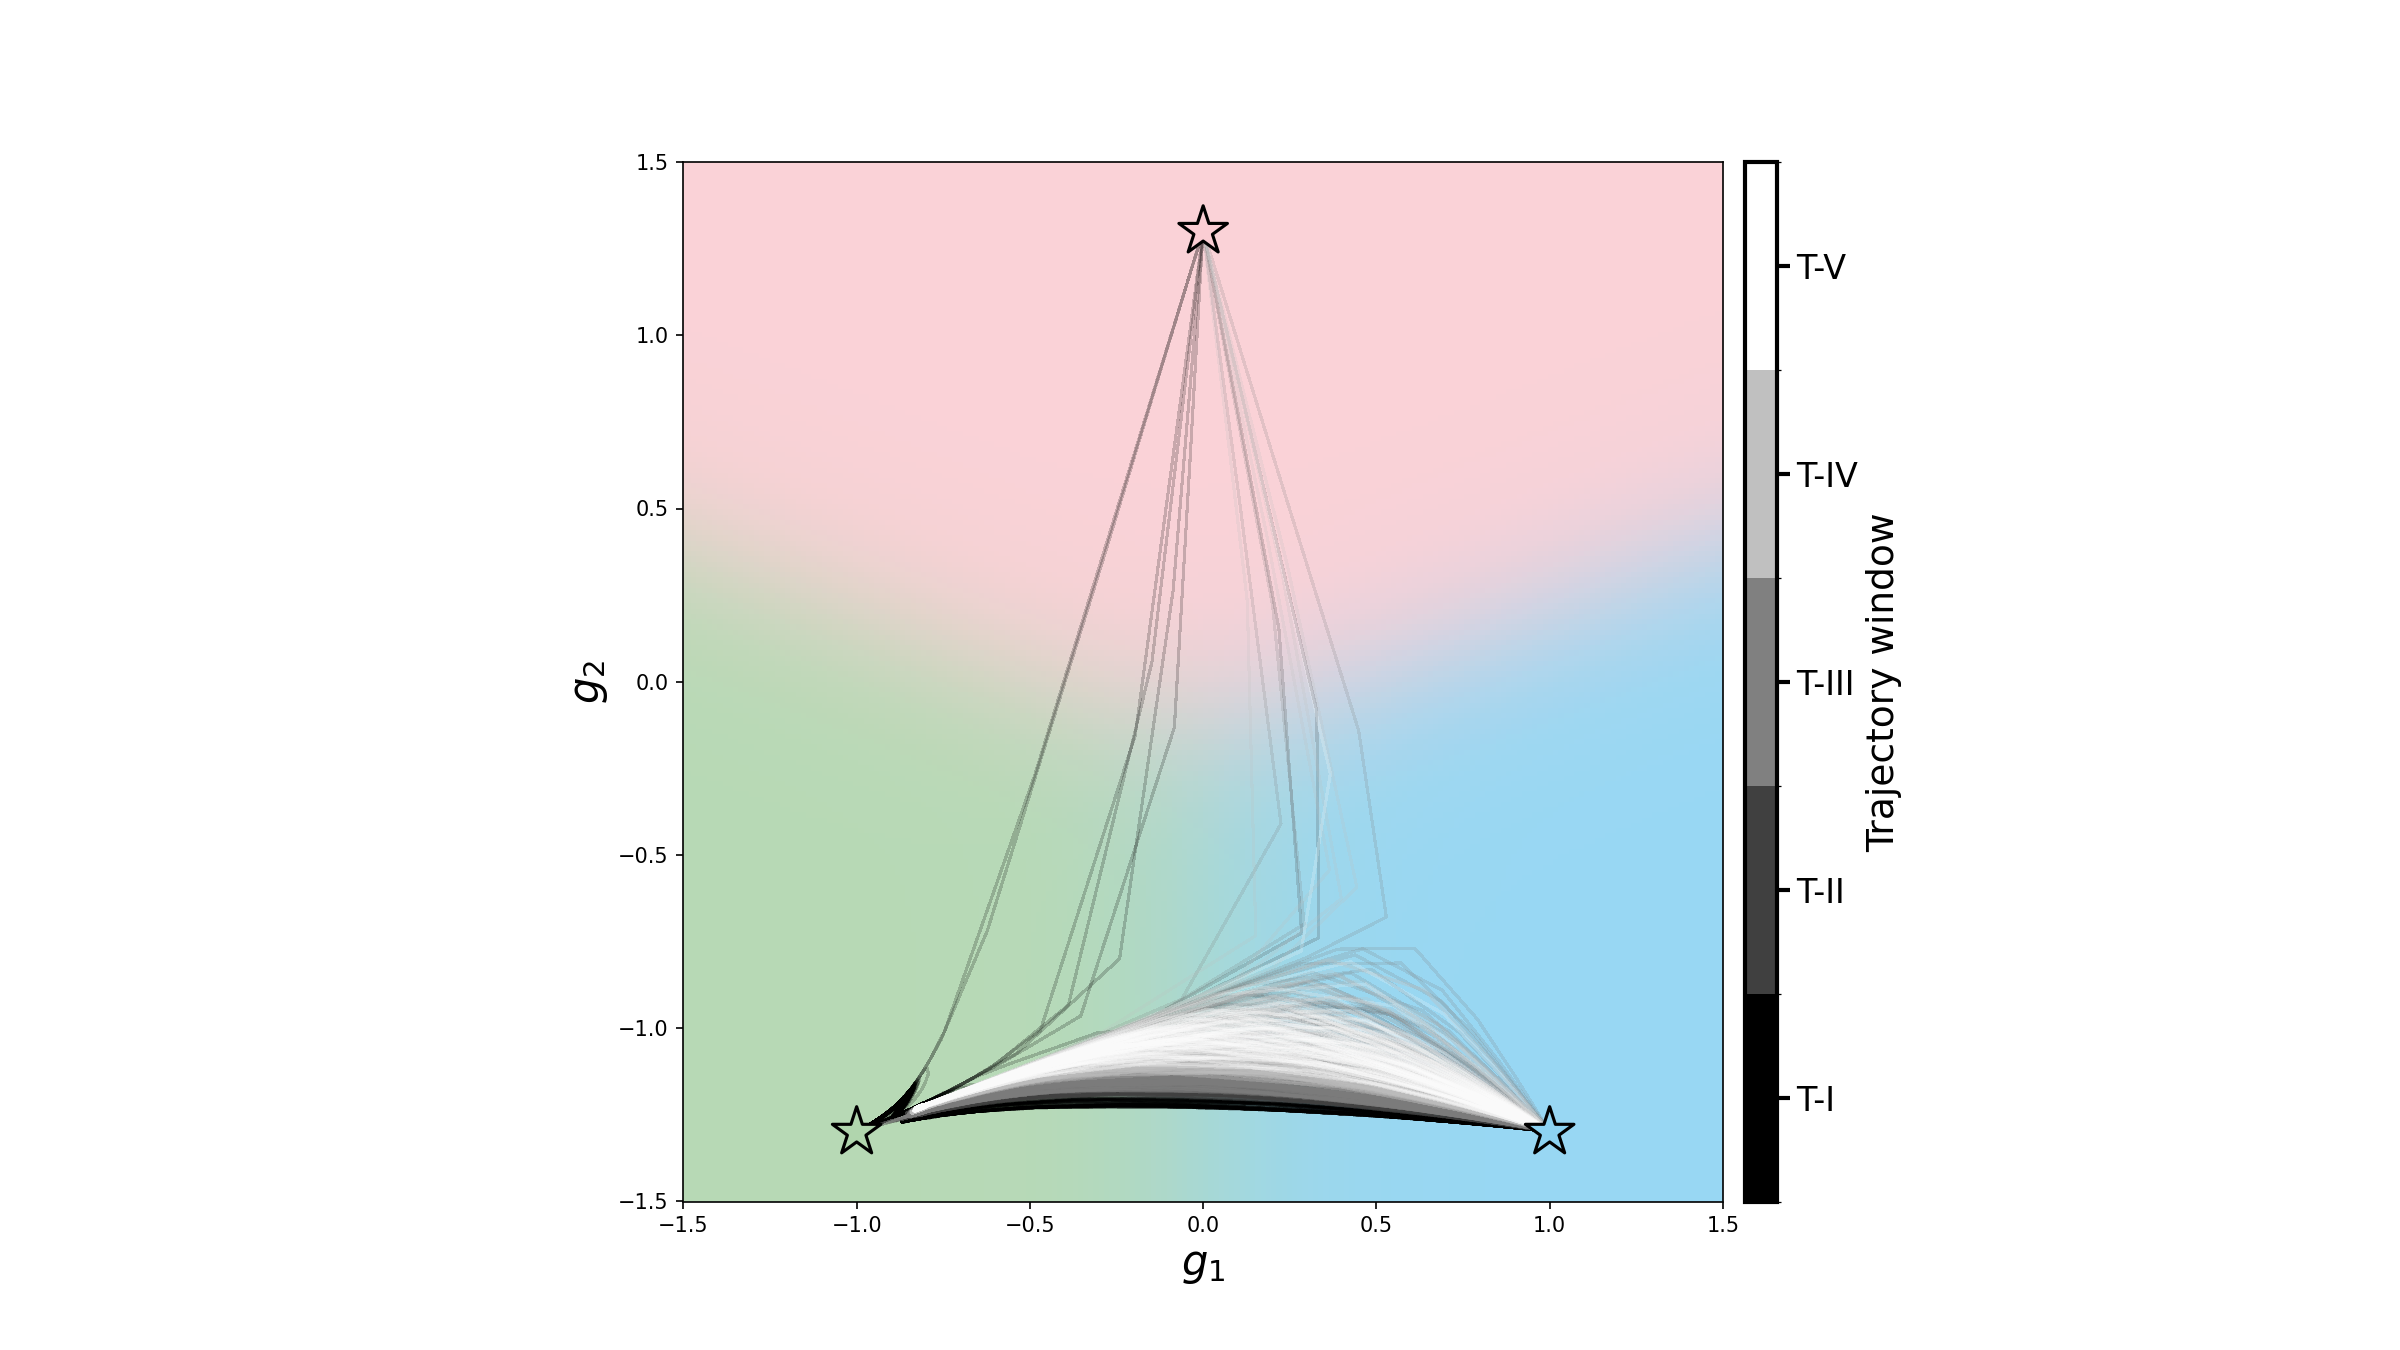
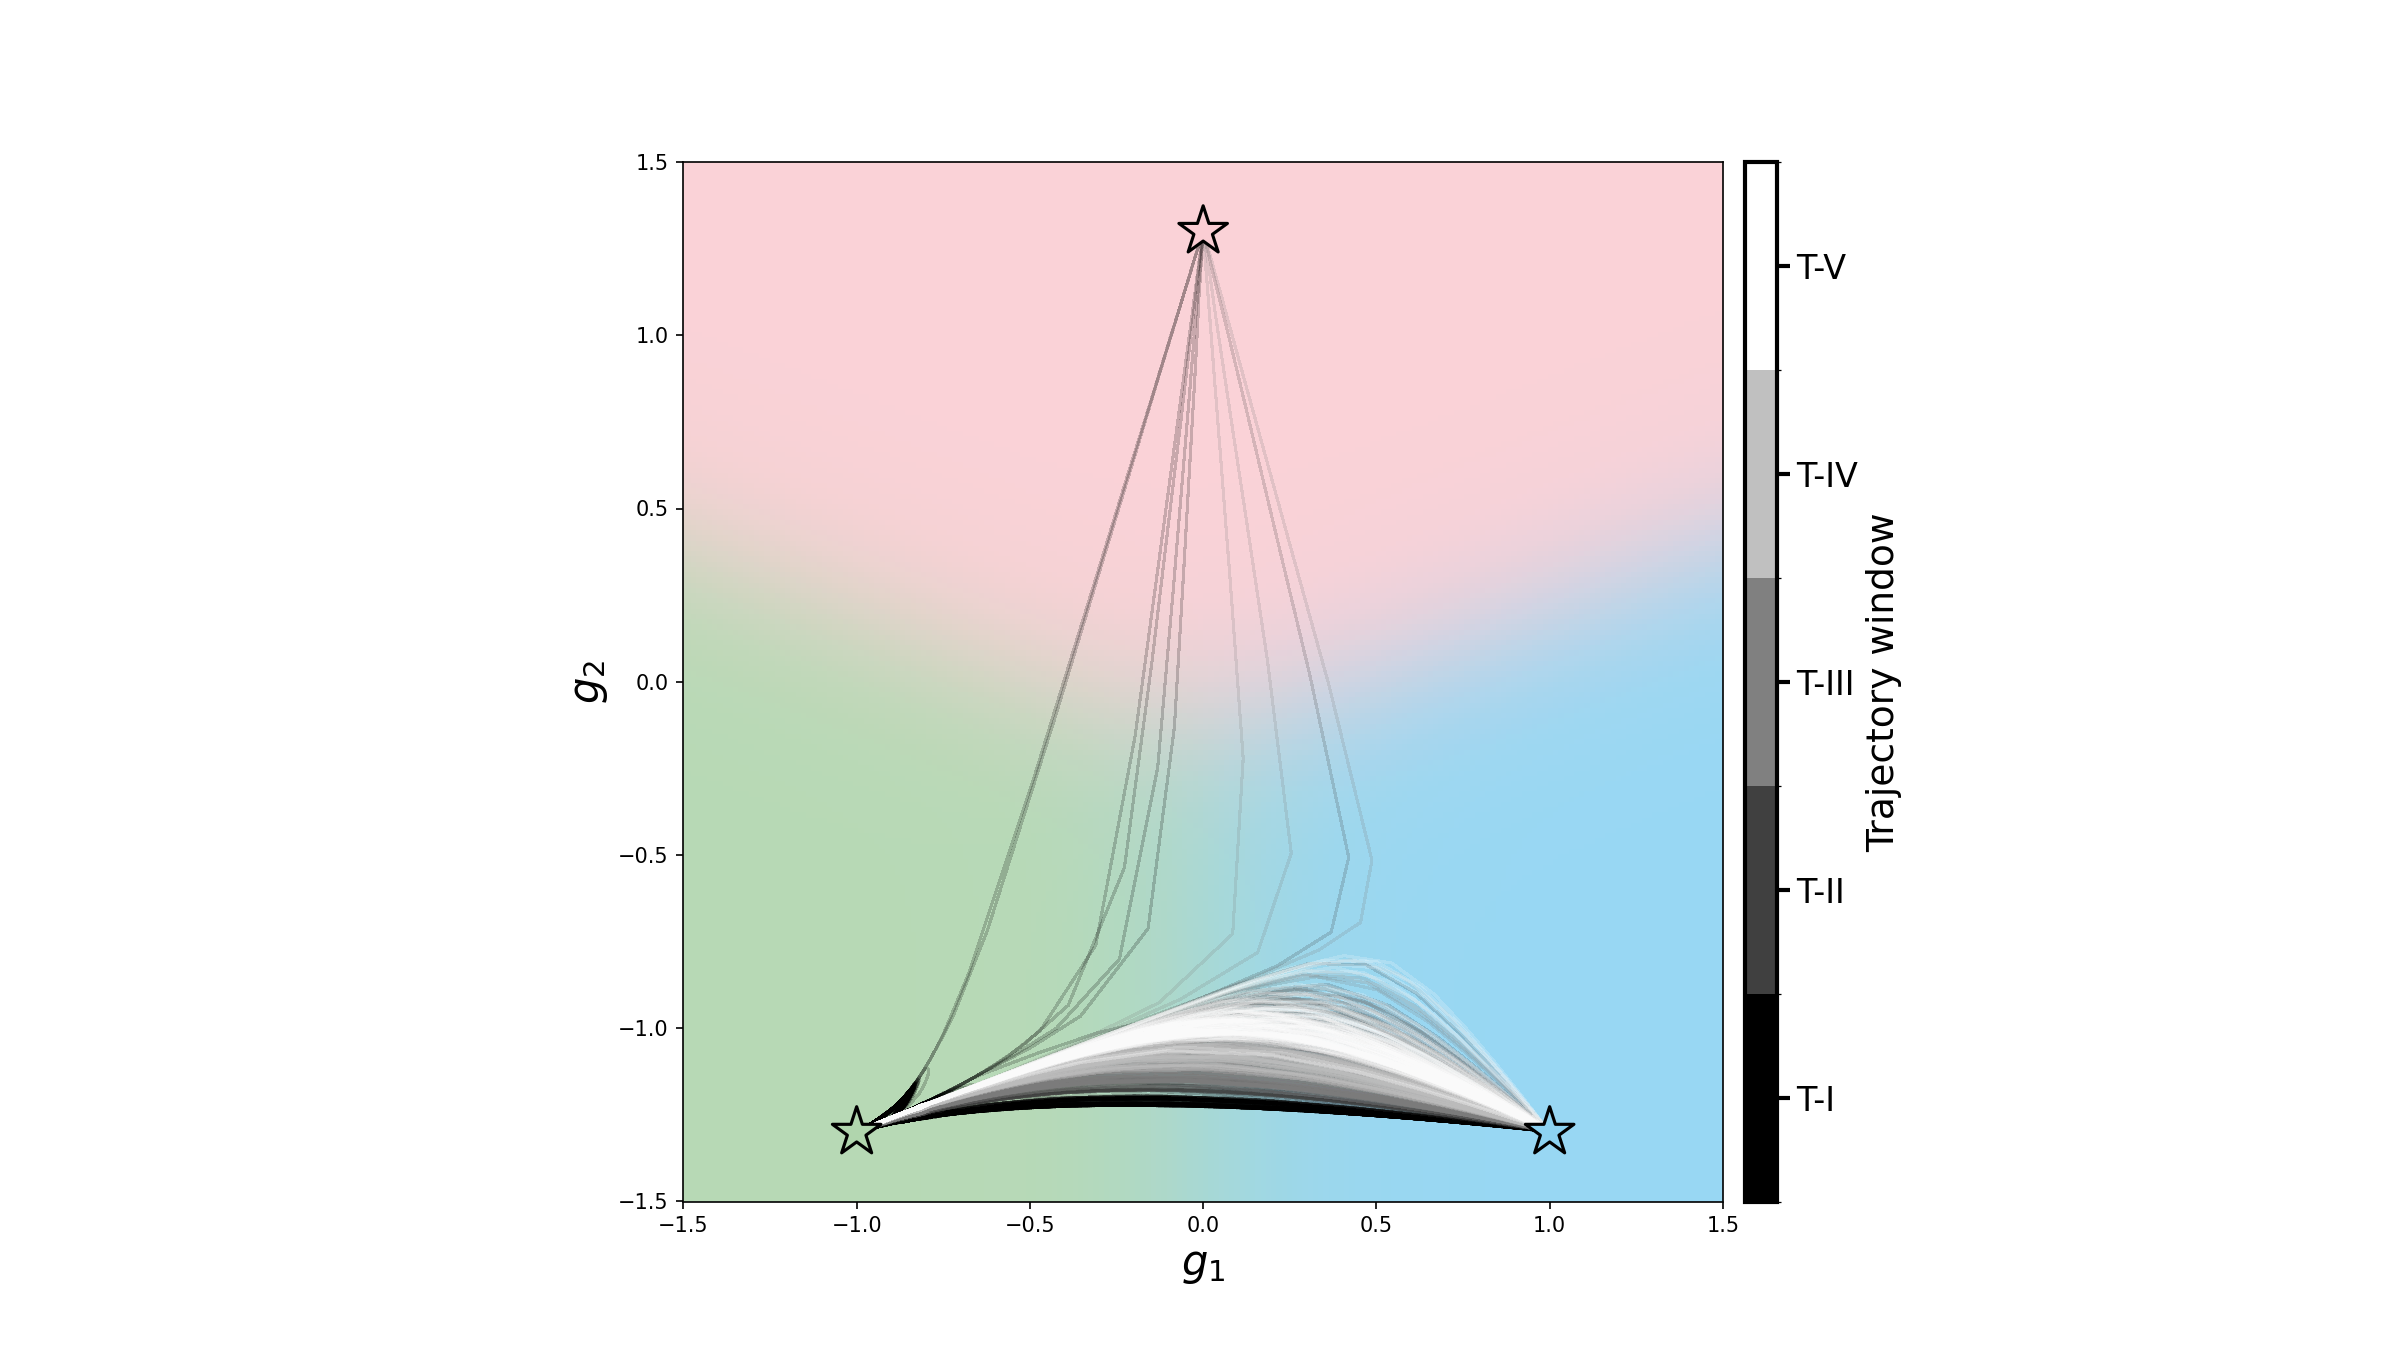
sync

Changed region(s): [[0.375, 0.4978, 0.6562, 0.84], [0.5, 0.2178, 0.5312, 0.4044]]

diff --git a/FigureCode/Fig4/I_dynamical_trajectories_v3.py b/FigureCode/Fig4/I_dynamical_trajectories_v3.py
@@ -1,0 +1,111 @@
+import numpy as np
+import matplotlib.pyplot as plt
+import tqdm
+
+from matplotlib.colors import ListedColormap, BoundaryNorm
+from mpl_toolkits.axes_grid1 import make_axes_locatable
+from matplotlib.cm import ScalarMappable
+
+import scipy.spatial.distance as distance
+
+def get_spatial_indices(data, eps):
+    diffs = np.linalg.norm(np.diff(data, axis=0), axis=1)
+    cumulative_dist = np.insert(np.cumsum(diffs), 0, 0.0)
+    thresholds = np.arange(0, cumulative_dist[-1], eps)
+    indices = np.searchsorted(cumulative_dist, thresholds)
+    return np.unique(np.append(indices, len(data) - 1))
+
+
+Xs_saves_all = np.load("Xs_saves.mmap", mmap_mode="r")[:80000, :] #70000
+#Xs_saves_all = Xs_saves
+tmax = len(Xs_saves_all)
+gamma_vlines = np.unique(np.r_[np.arange(0, tmax-1, 10000, dtype=int)[[0, 1, 2, 4, 6]], tmax-1])
+
+data = np.load("run_save_growth.npz")
+K = data["K"]
+XIs = data["XIs"]
+beta = data["beta"]
+gamma = data["gamma"]
+
+
+fig, ax = plt.subplots(figsize=(16, 9), dpi=150)
+
+
+nwin = len(gamma_vlines) - 1
+cmap_name = "gray"
+base_cmap = plt.get_cmap(cmap_name)
+colors = base_cmap(np.linspace(0, 1, nwin))   # first nwin colors
+cmap = ListedColormap(colors)
+norm = BoundaryNorm(np.arange(nwin + 1) - 0.5, nwin)
+
+
+size = 200
+xs = np.linspace(-1.5, 1.5, size)
+ys = np.linspace(-1.5, 1.5, size)
+Ms_probes_x, Ms_probes_y = np.meshgrid(xs, ys)
+Ms_probes = np.asarray([Ms_probes_x.ravel(), Ms_probes_y.ravel()]).T
+XIs_colors = np.asarray([[176.0, 213.0, 173.0, 255.0], [141, 211.0, 242.0, 255.0], [250.0, 205.0, 211.0, 255.0]])/255.0
+space_colors = np.exp(-beta*distance.cdist(Ms_probes, XIs)**2)@XIs_colors
+space_colors /= space_colors[:, -1][:, None]
+space_colors[:, -1] *= 0.9
+ax.pcolormesh(Ms_probes[:, 0].reshape(size, size), Ms_probes[:, 1].reshape(size, size), space_colors.reshape(size, size, -1), zorder=-2)
+ax.scatter(*XIs.T, marker="*", color=XIs_colors, s=600, edgecolor="k", lw=1.5, zorder=20)
+
+from matplotlib.collections import LineCollection
+for w in range(len(gamma_vlines) - 1):
+    tmin = gamma_vlines[w]
+    tmax = gamma_vlines[w + 1]
+
+    kmin = (tmin * 20) // 30
+    kmax = (tmax * 20) // 30
+    kmax = min(kmax, Xs_saves_all.shape[1])
+
+    print("window", w, "t:", tmin, tmax, "k:", kmin, kmax)
+
+    Xs_saves = Xs_saves_all[tmin:tmax, ::1]
+
+    segments = []
+    for k in tqdm.tqdm(range(kmin, kmax), desc=f"window {w}"):
+        indx = get_spatial_indices(Xs_saves[:, k], 0.01)
+        Xs_ss = Xs_saves[indx, k]
+
+        segments.append(Xs_ss)
+        
+    lw = 1
+    
+    lc = LineCollection(
+        segments,
+        colors=[cmap(norm(w))],
+        linewidths=lw,
+        alpha=0.2,
+        antialiaseds=False,
+        zorder=5,
+    )
+    ax.add_collection(lc)
+
+
+ax.set_xlim(-1.5, 1.5)
+ax.set_ylim(-1.5, 1.5)
+ax.set_aspect(1.0)
+
+ax.set_xlabel(r"$g_1$", fontsize=20)
+ax.set_ylabel(r"$g_2$", fontsize=20)
+
+divider = make_axes_locatable(ax)
+cax = divider.append_axes("right", size="3%", pad=0.15)
+
+sm = ScalarMappable(norm=norm, cmap=cmap)
+sm.set_array([])
+
+cbar = fig.colorbar(sm, cax=cax, ticks=np.arange(nwin))
+cbar.ax.set_yticklabels([f"T-{x}" for x in ["I", "II", "III", "IV", "V"][:nwin]])
+
+cbar.ax.tick_params(labelsize=16, width=2, length=6, colors="black")
+cbar.outline.set_linewidth(2)
+cbar.outline.set_edgecolor("black")
+cbar.set_label("Trajectory window", fontsize=18, color="black")
+
+
+#plt.tight_layout()
+plt.savefig(f"Fig/C_dynamical_trajectories.png")
+plt.close(fig)

diff --git a/FigureCode/Fig4/B_simulate_triangle_growth.py b/FigureCode/Fig4/B_simulate_triangle_growth.py
@@ -53,7 +53,14 @@ time_chunk_size = tmax // N_TIME_CHUNKS
 k = jnp.arange(K)[None, :]
 dt = 20
 
-Xs_saves = np.zeros((tmax//40, K, 2), dtype=np.float32)
+from numpy.lib.format import open_memmap
+Xs_saves = open_memmap(
+    "Xs_saves.mmap", 
+    mode="w+", 
+    dtype=np.float32, 
+    shape=(tmax // dt, K, 2)
+)
+#Xs_saves = np.zeros((tmax//dt, K, 2), dtype=np.float32)
 Ss_saves = np.zeros((tmax//dt, 3))
 
 k_indices = np.arange(K)
@@ -70,13 +77,17 @@ for i in tqdm.tqdm(range(0, N_TIME_CHUNKS)):
     X_0 = jnp.copy(Xs_saves_[-1])
 
     #Xs_saves[i * time_chunk_size//dt: (i+1) * time_chunk_size//dt] = np.asarray(Xs_saves_[::dt], copy=True)
-    Xs_saves[i * time_chunk_size//40: (i+1) * time_chunk_size//40] = np.asarray(Xs_saves_[::40], copy=True)
+    Xs_saves[i * time_chunk_size//dt: (i+1) * time_chunk_size//dt] = np.asarray(Xs_saves_[::dt], copy=True)
     Ss_saves[i * time_chunk_size//dt: (i+1) * time_chunk_size//dt] = np.asarray(calculate_signals_all_t(Xs_saves_[::dt], XIs,
                                                                                                         beta, gamma,
                                                                                                         mute_cells_ts_chunk[::dt]),
                                                                                 copy=True)
 
+Xs_saves.flush()
+
 # , Xs_saves=Xs_saves
 # Let's not save Xs_saves...
-jnp.savez(args.filename, Xs_saves=Xs_saves, Ss_saves=Ss_saves, K=K, XIs=XIs, beta=beta, gamma=gamma)
+jnp.savez(args.filename, Ss_saves=Ss_saves, K=K, XIs=XIs, beta=beta, gamma=gamma)
+
+#from I_dynamical_trajectories_v3 import *
 
